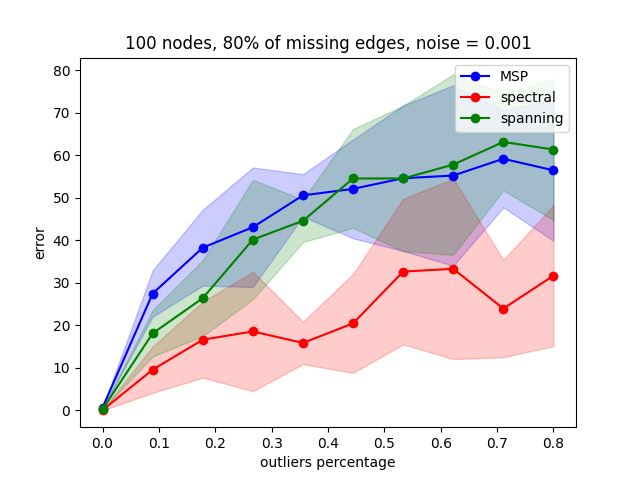
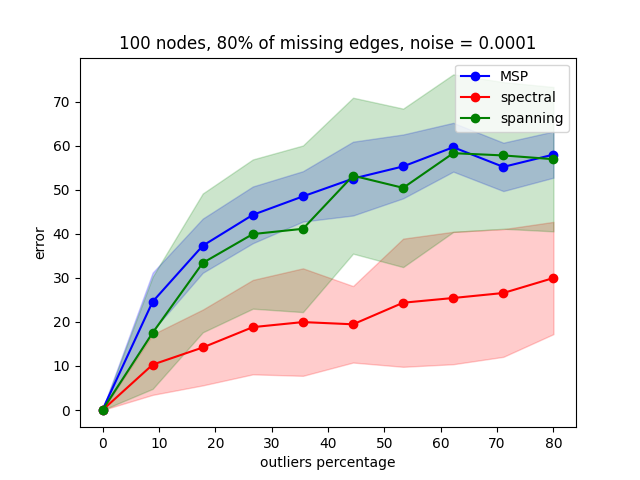
Fixed outliers test

diff --git a/tests/multi_source_propagation.py b/tests/multi_source_propagation.py
@@ -76,6 +76,7 @@ def test_outliers(n: int, miss_rate: float, num_repeat: int, noise: float):
     errors_spanning, errors_msp, errors_spectral = list(), list(), list()
     std_spanning, std_msp, std_spectral = list(), list(), list()
     for outliers in outliers_percent:
+        print(outliers)
         err_msp, err_spectral, err_spanning = np.array([]), np.array([]), np.array([])
         for _ in range(num_repeat):
             res = test(n, miss_rate=miss_rate, sigma=noise, outliers_percent=outliers)
@@ -85,17 +86,17 @@ def test_outliers(n: int, miss_rate: float, num_repeat: int, noise: float):
         errors_msp.append(np.mean(err_msp))
         errors_spectral.append(np.mean(err_spectral))
         errors_spanning.append(np.mean(err_spanning))
-        std_spanning.append(np.std(err_msp))
-        std_msp.append(np.std(err_spectral))
-        std_spectral.append(np.std(err_spanning))
+        std_spanning.append(np.std(err_spanning))
+        std_msp.append(np.std(err_msp))
+        std_spectral.append(np.std(err_spectral))
     outliers_percent = outliers_percent * 100
     plt.figure()
     plt.plot(outliers_percent, errors_msp, 'bo-', label='MSP')
     plt.fill_between(outliers_percent, np.array(errors_msp) - std_msp, np.array(errors_msp) + std_msp, color='b', alpha=0.2)
     plt.plot(outliers_percent, errors_spectral, 'ro-', label='spectral')
-    plt.fill_between(outliers_percent, np.array(errors_spectral) - std_msp, np.array(errors_spectral) + std_msp, color='r', alpha=0.2)
+    plt.fill_between(outliers_percent, np.array(errors_spectral) - std_spectral, np.array(errors_spectral) + std_spectral, color='r', alpha=0.2)
     plt.plot(outliers_percent, errors_spanning, 'go-', label='spanning')
-    plt.fill_between(outliers_percent, np.array(errors_spanning) - std_msp, np.array(errors_spanning) + std_msp, color='g', alpha=0.2)
+    plt.fill_between(outliers_percent, np.array(errors_spanning) - std_spanning, np.array(errors_spanning) + std_spanning, color='g', alpha=0.2)
     plt.xlabel('outliers percentage')
     plt.ylabel('error')
     plt.title(f'{n} nodes, {int(miss_rate * 100)}% of missing edges, noise = {noise}')
@@ -104,5 +105,6 @@ def test_outliers(n: int, miss_rate: float, num_repeat: int, noise: float):
 
 
 if __name__ == '__main__':
-    # test_different_noise(100, 0.8, 20)
-    test_outliers(100, 0.8, 20, 1e-3)
+    #test_different_noise(100, 0.8, 20)
+    #test_outliers(100, 0.5, 30, 1e-4)
+    test_outliers(100, 0.8, 30, 1e-4)
